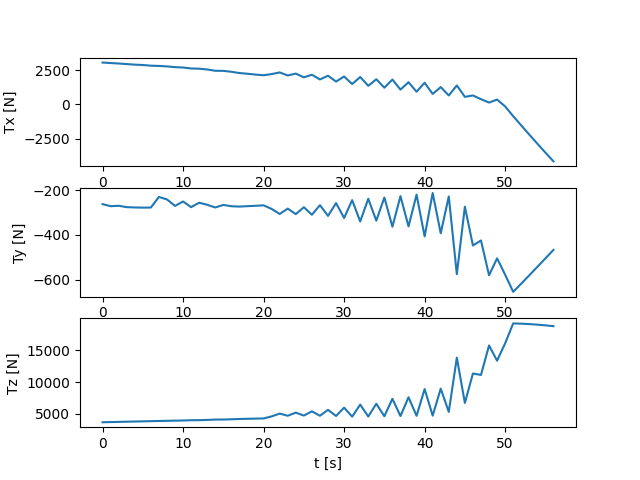
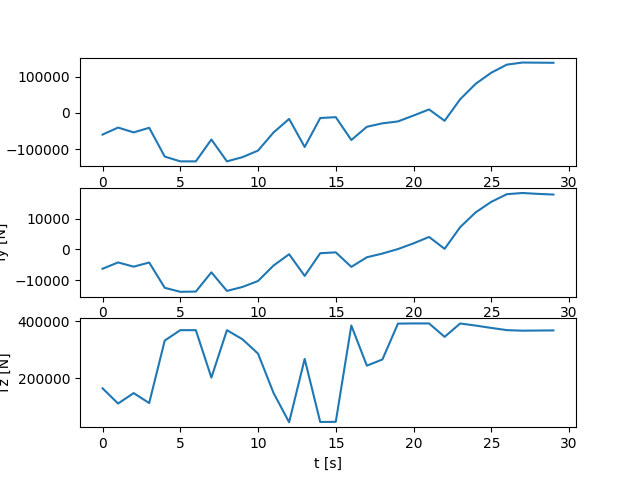
changed to earth dynamics in mpc and new shepard

diff --git a/gfold/3dof_mpc_finish_lqr.py b/gfold/3dof_mpc_finish_lqr.py
@@ -39,7 +39,7 @@ def dynamics(x, u):
     x = numpy.1darray, r = x[0:3], v = x[3:6], m = x[6]
     g = [gx, gy, gz]
     """
-    g = jnp.array([0,0,-3.7114])
+    g = jnp.array([0,0,-9.80665])
     α = 5E-4
     return jnp.array([
         x[3],
@@ -138,51 +138,51 @@ def run_mpc(  N,                # receding horizon (parameter)
     return r.value, v.value, m, T, status
 
 ## Constants
-g0 = 9.80665
-dry_mass = 1700
-Isp = 225
-max_throttle = 0.8
-min_throttle = 0.2
-g = np.array([0,0,-3.7114]) # Mars Gravity
-T_max = 24000
-γ = 4*np.deg2rad(1) # glide slope constraint
-wet_mass = 2000
-n = np.array([0,0,1]) # Nominal thrust pointing vector
-θ = np.deg2rad(45) # Attitude constraint
-
-## Initial Conditions
-r0 = np.array([450, -330, 2400])
-v0 = np.array([-40,10,-10])
-## Terminal Conditions set to origin
-rf = np.array([0,0,0])
-vf = np.array([0,0,0])
-## Time of Flight
-tf = 57
-dt = 1 # only works for dt=1 for infeasible part
-
-# New Shepard
 # g0 = 9.80665
-# dry_mass = 20569
-# wet_mass = 25000 # Assumed from start of landing burn
-# Isp = 260
-# max_throttle = 0.8 # Safety
-# min_throttle = 0.1
-# g = np.array([0.0,0.0,-9.81])
-# T_max = 490000
-# φ = 0*np.deg2rad(1)
-# γ = np.deg2rad(5)
-# n = np.array([0,0,1])
-# θ = np.deg2rad(20)
+# dry_mass = 1700
+# Isp = 225
+# max_throttle = 0.8
+# min_throttle = 0.2
+# g = np.array([0,0,-3.7114]) # Mars Gravity
+# T_max = 24000
+# γ = 4*np.deg2rad(1) # glide slope constraint
+# wet_mass = 2000
+# n = np.array([0,0,1]) # Nominal thrust pointing vector
+# θ = np.deg2rad(45) # Attitude constraint
 
 # ## Initial Conditions
-# r0 = 1000 * np.array([0.5, 0.1, 2])
-# v0 = np.array([20,0.01,-75])
+# r0 = np.array([450, -330, 2400])
+# v0 = np.array([-40,10,-10])
 # ## Terminal Conditions set to origin
 # rf = np.array([0,0,0])
 # vf = np.array([0,0,0])
 # ## Time of Flight
-# tf = 30
-# dt = 1
+# tf = 57
+# dt = 1 # only works for dt=1 for infeasible part
+
+# New Shepard
+g0 = 9.80665
+dry_mass = 20569
+wet_mass = 25000 # Assumed from start of landing burn
+Isp = 260
+max_throttle = 0.8 # Safety
+min_throttle = 0.1
+g = np.array([0.0,0.0,-9.81])
+T_max = 490000
+φ = 0*np.deg2rad(1)
+γ = np.deg2rad(5)
+n = np.array([0,0,1])
+θ = np.deg2rad(20)
+
+## Initial Conditions
+r0 = 1000 * np.array([0.5, 0.1, 2])
+v0 = np.array([20,0.01,-75])
+## Terminal Conditions set to origin
+rf = np.array([0,0,0])
+vf = np.array([0,0,0])
+## Time of Flight
+tf = 30
+dt = 1
 
 N0 = int(np.ceil(tf/dt) + 1)
 ts = np.arange(0,tf+dt,dt)
